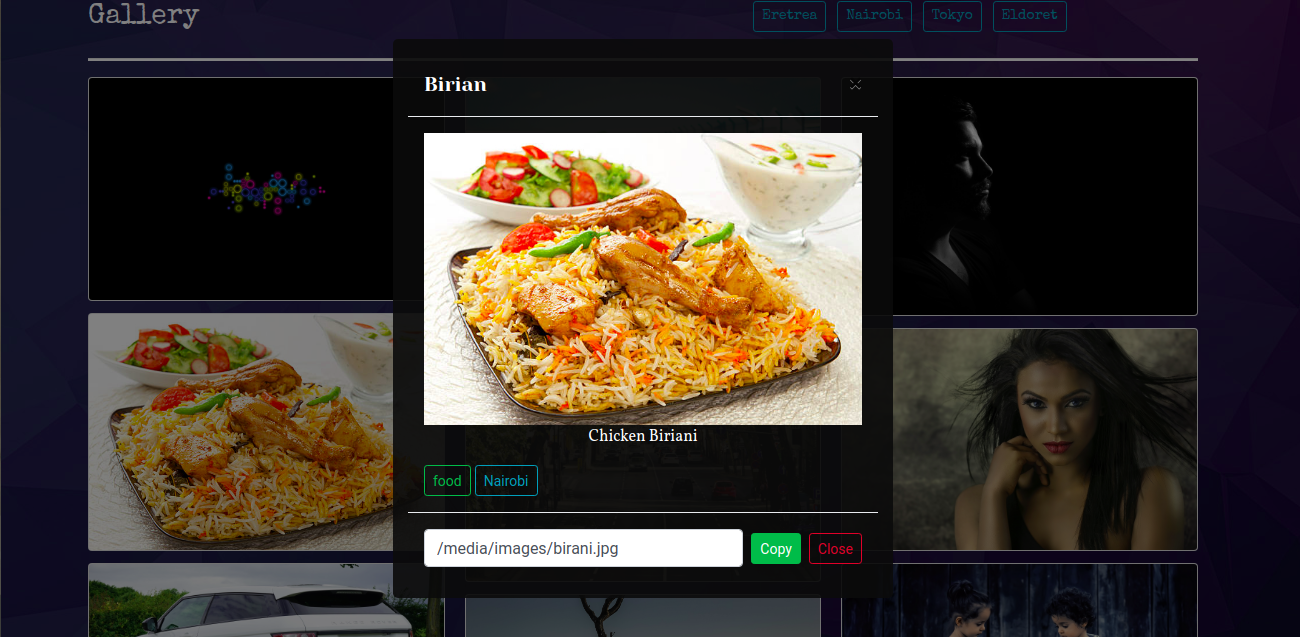
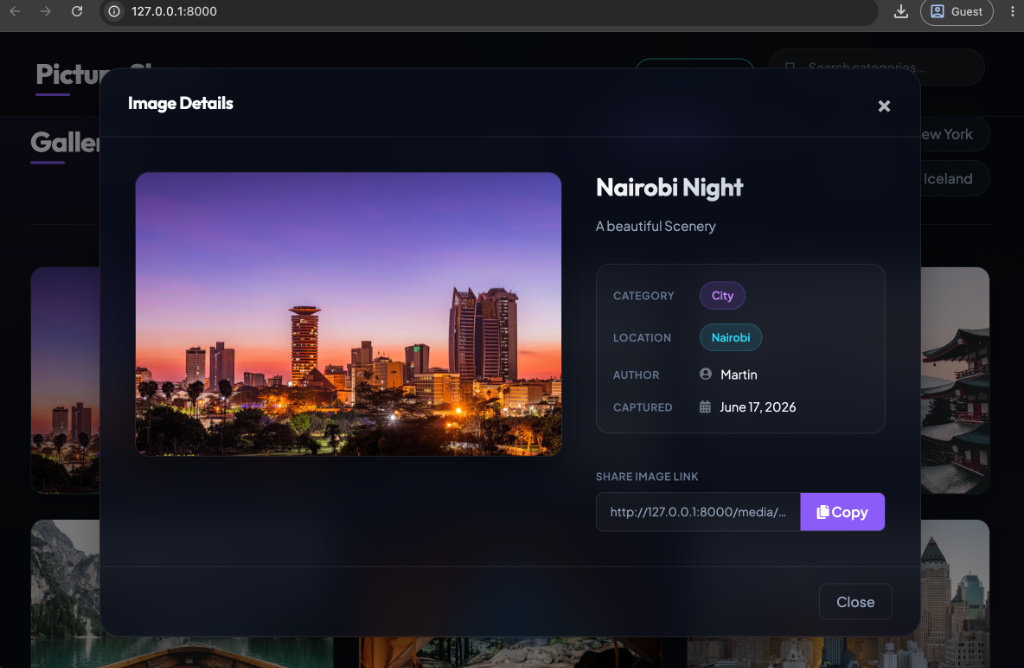
Update README.md screenshots with actual high-quality redesigned layouts

diff --git a/README.md b/README.md
@@ -10,15 +10,14 @@ This is a Django application for personal gallery that allows a user to upload i
  Click [View Site](https://picturesharen.herokuapp.com/)  to visit the site
   
 ## Screenshots 
-###### Home page
+###### Home page (Hero)
+<img src="https://raw.githubusercontent.com/mnyando/Picture-Globe/master/static/images/landingpage.png" width="100%">
  
-<img src="https://raw.githubusercontent.com/Owiti-Charles/Picture-Globe/master/static/images/landingpage.png">
- 
- ###### Search results
- <img src="https://raw.githubusercontent.com/Owiti-Charles/Picture-Globe/master/static/images/searchfood.png"> 
+###### Home page (Gallery Grid)
+<img src="https://raw.githubusercontent.com/mnyando/Picture-Globe/master/static/images/gallery.png" width="100%">
 
- ###### Image Details 
- <img src="https://raw.githubusercontent.com/Owiti-Charles/Picture-Globe/master/static/images/modalscrn.png">
+###### Expanded Image Details Modal
+<img src="https://raw.githubusercontent.com/mnyando/Picture-Globe/master/static/images/modalscrn.png" width="100%">
  
 ## User Story  
   